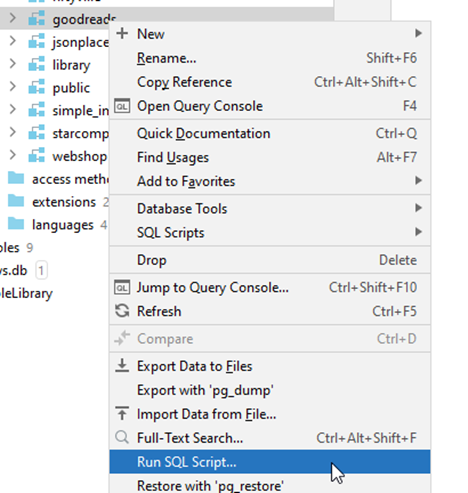
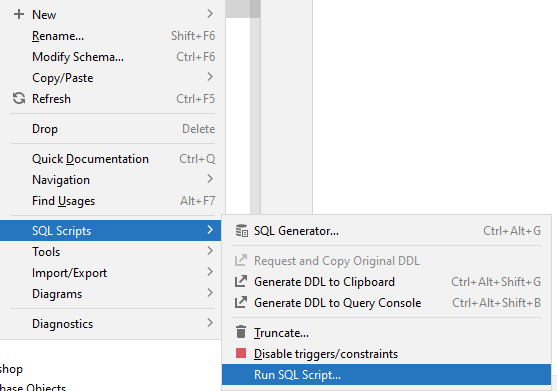
fixed new run script

diff --git a/Tutorials/SimpleIMDB/Page.html b/Tutorials/SimpleIMDB/Page.html
@@ -48,8 +48,8 @@
 <p>You must first import this data set. Download the ddl file from here:</p>
 <p><a href="IMDB_shows_DDL.sql">Simple IMDb ddl</a></p>
 <p>You must import this by running the ddl code, like this:</p>
-<p><img src="img.png" alt="" /></p>
-<p>Right click on your <em>schema</em> folder, and select the &quot;Run SQL Script...&quot;.</p>
+<p><img src="C:%5CUsers%5CRIB%5CRiderProjects%5Ccodelabs%5CTutorials%5CDvdRentalExercises%5Cimg_10.png" alt="" /></p>
+<p>Right click on your <em>schema</em> folder, and select the &quot;SQL Scripts&quot; --&gt; &quot;Run SQL Script...&quot;.</p>
 <p>This should import a new schema, the simple_imdb.</p>
 <p>Then, you must import data. Download the data her:</p>
 <p><a href="https://drive.google.com/file/d/1QqTU-o-n-Fe4X9LoIhrJtLMNhlq7OQZH/view?usp=sharing">Simple IMDb data</a></p>

diff --git a/Tutorials/DvdRentalExercises/Page.html b/Tutorials/DvdRentalExercises/Page.html
@@ -46,8 +46,9 @@
 <p>You must first import this data set. Download the ddl file from here:</p>
 <p><a href="DVD_rental_DDL.sql">DVD rental ddl</a></p>
 <p>You must import this by running the ddl code, like this:</p>
-<p><img src="img.png" alt="img.png" /></p>
-<p>Right click on your <em>schema</em> folder, and select the &quot;Run SQL Script...&quot;.</p>
+<p><img src="img_10.png" alt="img_10.png" /></p>
+<p>Right click on your <em>schema</em> folder, and select the &quot;SQL Scripts&quot; --&gt; &quot;Run SQL Script...&quot;.</p>
+<p>Locate your file and select it.</p>
 <p>This should import a new schema, the dvd rental.</p>
 <p>Then, you must import data. Download the data her:</p>
 <p><a href="DVD_rental_data.sql">DVD rental data</a></p>

diff --git a/Tutorials/WebshopExercises/Page.html b/Tutorials/WebshopExercises/Page.html
@@ -52,8 +52,8 @@
 <p>Download first the dll file here:</p>
 <p><a href="webshop_DDL.sql">webshop dll</a></p>
 <p>You must import this by running the ddl code, like this:</p>
-<p><img src="img.png" alt="img.png" /></p>
-<p>Right click on your <em>schema</em> folder, and select the &quot;Run SQL Script...&quot;.</p>
+<p><img src="C:%5CUsers%5CRIB%5CRiderProjects%5Ccodelabs%5CTutorials%5CDvdRentalExercises%5Cimg_10.png" alt="img.png" /></p>
+<p>Right click on your <em>schema</em> folder, and select the &quot;SQL Scripts&quot; --&gt; &quot;Run SQL Script...&quot;.</p>
 <p>This should import a new schema, the dvd rental.</p>
 <p>Then, download the data from here:</p>
 <p><a href="webshop_data.sql">webshop data</a></p>

diff --git a/CodeLabsGenerator/Program.cs b/CodeLabsGenerator/Program.cs
@@ -9,7 +9,7 @@ namespace CodeLabsGenerator
 
         static void Main(string[] args)
         {
-            GenerateOne("DVDRentalExercises");
+            GenerateOne("WebshopExercises");
             // GenerateMany();
         }
 

diff --git a/Tutorials/SimpleIMDB/001 Simple IMDB Exercises.md b/Tutorials/SimpleIMDB/001 Simple IMDB Exercises.md
@@ -7,9 +7,9 @@ You must first import this data set. Download the ddl file from here:
 
 You must import this by running the ddl code, like this:
 
-![](img.png)
+![](C:\Users\RIB\RiderProjects\codelabs\Tutorials\DvdRentalExercises\img_10.png)
 
-Right click on your _schema_ folder, and select the "Run SQL Script...".
+Right click on your _schema_ folder, and select the "SQL Scripts" --> "Run SQL Script...".
 
 This should import a new schema, the simple_imdb.
 

diff --git a/Tutorials/DvdRentalExercises/001 Dvd Rental Exercises.md b/Tutorials/DvdRentalExercises/001 Dvd Rental Exercises.md
@@ -7,9 +7,11 @@ You must first import this data set. Download the ddl file from here:
 
 You must import this by running the ddl code, like this:
 
-![img.png](img.png)
+![img_10.png](img_10.png)
 
-Right click on your _schema_ folder, and select the "Run SQL Script...".
+Right click on your _schema_ folder, and select the "SQL Scripts" --> "Run SQL Script...".
+
+Locate your file and select it.
 
 This should import a new schema, the dvd rental.
 

diff --git a/Tutorials/WebshopExercises/001 Exercise 1.md b/Tutorials/WebshopExercises/001 Exercise 1.md
@@ -10,9 +10,9 @@ Download first the dll file here:
 
 You must import this by running the ddl code, like this:
 
-![img.png](img.png)
+![img.png](C:\Users\RIB\RiderProjects\codelabs\Tutorials\DvdRentalExercises\img_10.png)
 
-Right click on your _schema_ folder, and select the "Run SQL Script...".
+Right click on your _schema_ folder, and select the "SQL Scripts" --> "Run SQL Script...".
 
 This should import a new schema, the dvd rental.
 
